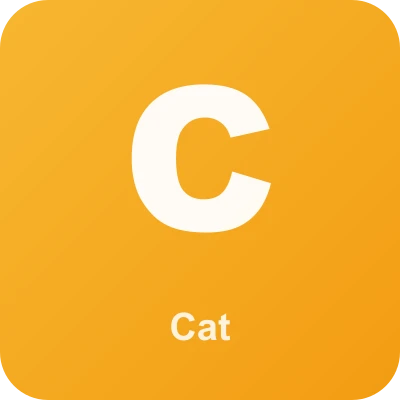
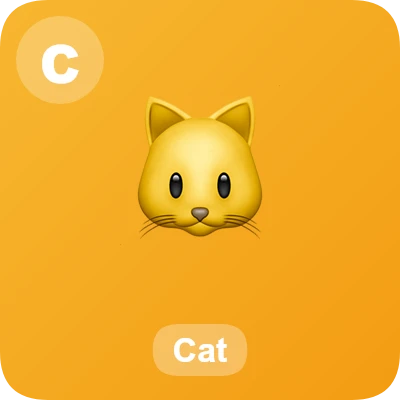
Fix alphabet images to show actual pictures instead of letters
- Alphabet image cards now show the emoji picture (🐘 Elephant) with
  the letter in a small badge in the top-left corner + word label
- Eliminates redundancy: lesson card shows big E + elephant picture + word

diff --git a/generate-images.js b/generate-images.js
@@ -43,48 +43,107 @@ function base(bg = 'url(#g)') {
 // ─── alphabet ───────────────────────────────────────────────────────────────
 
 const ALPHA = [
-  { l:'A', word:'Apple',     c1:'#FF6B6B', c2:'#FFE66D' },
-  { l:'B', word:'Ball',      c1:'#4ECDC4', c2:'#44C49B' },
-  { l:'C', word:'Cat',       c1:'#F7B731', c2:'#F39C12' },
-  { l:'D', word:'Dog',       c1:'#A29BFE', c2:'#6C5CE7' },
-  { l:'E', word:'Elephant',  c1:'#FD79A8', c2:'#E84393' },
-  { l:'F', word:'Fish',      c1:'#00CEC9', c2:'#0984E3' },
-  { l:'G', word:'Grapes',    c1:'#6C5CE7', c2:'#A29BFE' },
-  { l:'H', word:'House',     c1:'#FDCB6E', c2:'#E17055' },
-  { l:'I', word:'Ice Cream', c1:'#FD79A8', c2:'#FDCB6E' },
-  { l:'J', word:'Jar',       c1:'#55EFC4', c2:'#00B894' },
-  { l:'K', word:'Kite',      c1:'#74B9FF', c2:'#0984E3' },
-  { l:'L', word:'Lion',      c1:'#FFEAA7', c2:'#FDCB6E' },
-  { l:'M', word:'Moon',      c1:'#6C5CE7', c2:'#2D3436' },
-  { l:'N', word:'Nest',      c1:'#A29BFE', c2:'#FDCB6E' },
-  { l:'O', word:'Orange',    c1:'#FF7675', c2:'#FDCB6E' },
-  { l:'P', word:'Penguin',   c1:'#2D3436', c2:'#636E72' },
-  { l:'Q', word:'Queen',     c1:'#FD79A8', c2:'#6C5CE7' },
-  { l:'R', word:'Rainbow',   c1:'#FF6B6B', c2:'#A29BFE' },
-  { l:'S', word:'Sun',       c1:'#FFEAA7', c2:'#F9CA24' },
-  { l:'T', word:'Tiger',     c1:'#F39C12', c2:'#2D3436' },
-  { l:'U', word:'Umbrella',  c1:'#74B9FF', c2:'#0984E3' },
-  { l:'V', word:'Violin',    c1:'#A29BFE', c2:'#6C5CE7' },
-  { l:'W', word:'Whale',     c1:'#0984E3', c2:'#00CEC9' },
-  { l:'X', word:'Xylophone', c1:'#FF6B6B', c2:'#FDCB6E' },
-  { l:'Y', word:'Yak',       c1:'#55EFC4', c2:'#FFEAA7' },
-  { l:'Z', word:'Zebra',     c1:'#2D3436', c2:'#636E72' },
+  { l:'A', word:'Apple',     emoji:'🍎', c1:'#FF6B6B', c2:'#FFE66D' },
+  { l:'B', word:'Ball',      emoji:'⚽', c1:'#4ECDC4', c2:'#44C49B' },
+  { l:'C', word:'Cat',       emoji:'🐱', c1:'#F7B731', c2:'#F39C12' },
+  { l:'D', word:'Dog',       emoji:'🐶', c1:'#A29BFE', c2:'#6C5CE7' },
+  { l:'E', word:'Elephant',  emoji:'🐘', c1:'#FD79A8', c2:'#E84393' },
+  { l:'F', word:'Fish',      emoji:'🐟', c1:'#00CEC9', c2:'#0984E3' },
+  { l:'G', word:'Grapes',    emoji:'🍇', c1:'#6C5CE7', c2:'#A29BFE' },
+  { l:'H', word:'House',     emoji:'🏠', c1:'#FDCB6E', c2:'#E17055' },
+  { l:'I', word:'Ice Cream', emoji:'🍦', c1:'#FD79A8', c2:'#FDCB6E' },
+  { l:'J', word:'Jar',       emoji:'🫙', c1:'#55EFC4', c2:'#00B894' },
+  { l:'K', word:'Kite',      emoji:'🪁', c1:'#74B9FF', c2:'#0984E3' },
+  { l:'L', word:'Lion',      emoji:'🦁', c1:'#FFEAA7', c2:'#FDCB6E' },
+  { l:'M', word:'Moon',      emoji:'🌙', c1:'#6C5CE7', c2:'#2D3436' },
+  { l:'N', word:'Nest',      emoji:'🪺', c1:'#A29BFE', c2:'#FDCB6E' },
+  { l:'O', word:'Orange',    emoji:'🍊', c1:'#FF7675', c2:'#FDCB6E' },
+  { l:'P', word:'Penguin',   emoji:'🐧', c1:'#2D3436', c2:'#636E72' },
+  { l:'Q', word:'Queen',     emoji:'👑', c1:'#FD79A8', c2:'#6C5CE7' },
+  { l:'R', word:'Rainbow',   emoji:'🌈', c1:'#FF6B6B', c2:'#A29BFE' },
+  { l:'S', word:'Sun',       emoji:'☀', c1:'#FFEAA7', c2:'#F9CA24' },
+  { l:'T', word:'Tiger',     emoji:'🐯', c1:'#F39C12', c2:'#2D3436' },
+  { l:'U', word:'Umbrella',  emoji:'☂', c1:'#74B9FF', c2:'#0984E3' },
+  { l:'V', word:'Violin',    emoji:'🎻', c1:'#A29BFE', c2:'#6C5CE7' },
+  { l:'W', word:'Whale',     emoji:'🐳', c1:'#0984E3', c2:'#00CEC9' },
+  { l:'X', word:'Xylophone', emoji:'🎵', c1:'#FF6B6B', c2:'#FDCB6E' },
+  { l:'Y', word:'Yak',       emoji:'🐂', c1:'#55EFC4', c2:'#FFEAA7' },
+  { l:'Z', word:'Zebra',     emoji:'🦓', c1:'#2D3436', c2:'#636E72' },
 ];
 
 async function genAlphabet() {
   console.log('\n📝 Alphabet...');
   mkdir(path.join(OUT, 'alphabet'));
-  for (const { l, word, c1, c2 } of ALPHA) {
+  for (const { l, word, emoji, c1, c2 } of ALPHA) {
     const fileName = word.toLowerCase().replace(/ /g, '') + '.webp';
-    const svg = `<svg width="400" height="400" xmlns="http://www.w3.org/2000/svg">
-      ${grad('g', c1, c2)}
-      ${base()}
-      <text x="200" y="230" text-anchor="middle" font-family="Arial Black,sans-serif"
-            font-size="200" font-weight="900" fill="white" opacity="0.95">${l}</text>
-      <text x="200" y="340" text-anchor="middle" font-family="Arial,sans-serif"
-            font-size="38" font-weight="700" fill="white" opacity="0.85">${word}</text>
-    </svg>`;
-    await save(svg, path.join(OUT, 'alphabet', fileName));
+    const SIZE = 400;
+    const canvas = createCanvas(SIZE, SIZE);
+    const ctx = canvas.getContext('2d');
+
+    // gradient background
+    const grd = ctx.createLinearGradient(0, 0, SIZE, SIZE);
+    grd.addColorStop(0, c1);
+    grd.addColorStop(1, c2);
+
+    // rounded rect
+    const r = 48;
+    ctx.beginPath();
+    ctx.moveTo(r, 0); ctx.lineTo(SIZE - r, 0);
+    ctx.quadraticCurveTo(SIZE, 0, SIZE, r);
+    ctx.lineTo(SIZE, SIZE - r);
+    ctx.quadraticCurveTo(SIZE, SIZE, SIZE - r, SIZE);
+    ctx.lineTo(r, SIZE);
+    ctx.quadraticCurveTo(0, SIZE, 0, SIZE - r);
+    ctx.lineTo(0, r);
+    ctx.quadraticCurveTo(0, 0, r, 0);
+    ctx.closePath();
+    ctx.fillStyle = grd;
+    ctx.fill();
+
+    // letter badge (top-left circle)
+    ctx.fillStyle = 'rgba(255,255,255,0.25)';
+    ctx.beginPath();
+    ctx.arc(60, 60, 44, 0, Math.PI * 2);
+    ctx.fill();
+    ctx.fillStyle = 'white';
+    ctx.font = 'bold 52px Arial Black, sans-serif';
+    ctx.textAlign = 'center';
+    ctx.textBaseline = 'middle';
+    ctx.fillText(l, 60, 62);
+
+    // emoji (large, centered)
+    ctx.font = '160px AppleEmoji, serif';
+    ctx.textAlign = 'center';
+    ctx.textBaseline = 'middle';
+    ctx.fillText(emoji, SIZE / 2, SIZE / 2 - 10);
+
+    // word pill at bottom
+    ctx.font = 'bold 34px Arial';
+    const tw = ctx.measureText(word).width;
+    const pw = tw + 40, ph = 52;
+    const px = SIZE / 2 - pw / 2, py = SIZE - ph - 24;
+    const pr = 26;
+    ctx.fillStyle = 'rgba(255,255,255,0.30)';
+    ctx.beginPath();
+    ctx.moveTo(px + pr, py); ctx.lineTo(px + pw - pr, py);
+    ctx.quadraticCurveTo(px + pw, py, px + pw, py + pr);
+    ctx.lineTo(px + pw, py + ph - pr);
+    ctx.quadraticCurveTo(px + pw, py + ph, px + pw - pr, py + ph);
+    ctx.lineTo(px + pr, py + ph);
+    ctx.quadraticCurveTo(px, py + ph, px, py + ph - pr);
+    ctx.lineTo(px, py + pr);
+    ctx.quadraticCurveTo(px, py, px + pr, py);
+    ctx.closePath();
+    ctx.fill();
+    ctx.fillStyle = 'white';
+    ctx.font = 'bold 34px Arial, sans-serif';
+    ctx.textAlign = 'center';
+    ctx.textBaseline = 'middle';
+    ctx.fillText(word, SIZE / 2, py + ph / 2);
+
+    const buf = canvas.toBuffer('image/png');
+    await sharp(buf).resize(400, 400).webp({ quality: 90 }).toFile(path.join(OUT, 'alphabet', fileName));
+    console.log('  ✓', 'alphabet/' + fileName);
   }
 }
 
